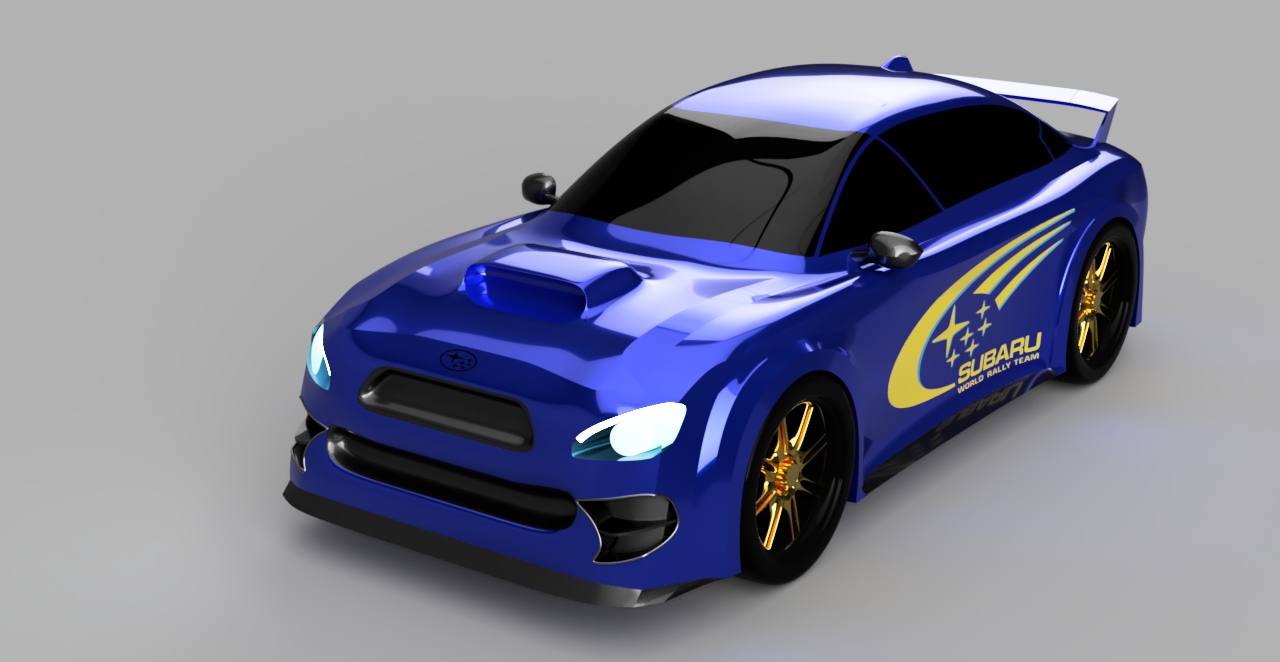
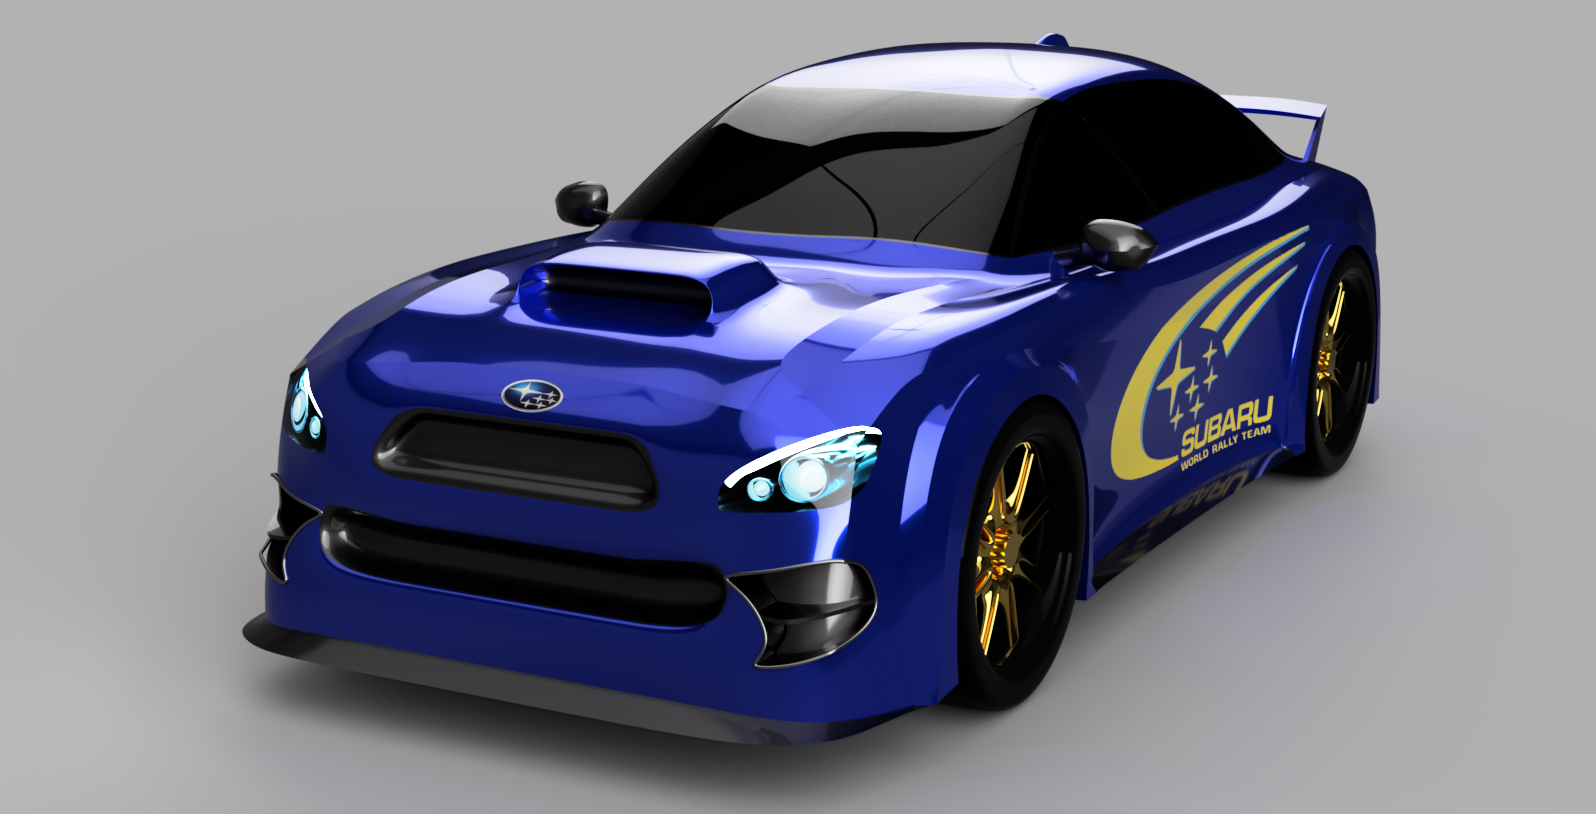
some updates on portfolio contents

diff --git a/src/views/Components/Sections/SectionCarousel.js b/src/views/Components/Sections/SectionCarousel.js
@@ -15,6 +15,9 @@ import car2 from "assets/img/car2.png";
 import car3 from "assets/img/car3.png";
 import car4 from "assets/img/car4.png";
 import car5 from "assets/img/car5.png";
+import cfd1 from "assets/img/cfd1.png";
+import cfd2 from "assets/img/cfd2.png";
+import cfd3 from "assets/img/cfd3.png";
 import engine1 from "assets/img/engine1.jpg";
 import engine2 from "assets/img/engine2.jpg";
 import engine3 from "assets/img/engine3.jpg";
@@ -40,11 +43,15 @@ const useStyles = makeStyles(styles);
 export default function SectionCarousel() {
   const classes = useStyles();
   const [portfolio, setPortfolio] = React.useState("");
+  const [cfd, setCfd] = React.useState("");
   React.useEffect(() => {
     const getFile = async () => {
       try {
         const result = await Storage.get("e-portfolio.pdf");
+        const result2 = await Storage.get("cfd_coursework.pdf");
+
         setPortfolio(result);
+        setCfd(result2);
       } catch (error) {
         console.log(error);
       }
@@ -266,7 +273,7 @@ export default function SectionCarousel() {
           <GridItem>
             <div className={classes.title}>
               <h2 className={classes.title}>
-                Surface Design of My Ideal Sports Car
+                Surface Design of My Ideal Sports Cars
               </h2>
               <h5>SEP 2018</h5>
             </div>
@@ -304,18 +311,98 @@ export default function SectionCarousel() {
           <GridItem xs={12} sm={12} md={4}>
             <div className={classes.typo}>
               <h5>
-                The project is basically a practice of
+                The left portfolio images demonstrated my strong knowledge of
+                using
                 <a
                   href="https://www.autodesk.co.uk/products/fusion-360/overview"
                   target="blank"
                 >
                   {" "}
-                  Fusion 360.{" "}
+                  Fusion 360{" "}
                 </a>
-                The whole surface design combined the idea of both aerodynamics
-                and fashion styling. Although for now, I am not capable of
-                fabricating it, I believe that someday in the near future, the
-                dream car would not be JUST a dream!
+                in vehicle appearance design. I am capable of following the
+                existing blue print (first image Subaru WRX STI) and design from
+                complete scratch (second and third images). More specifically,
+                the whole surface design in the second image combined the ideas
+                of both aerodynamics and fashion styling. Although for now, I am
+                not capable of fabricating it, I believe that someday in the
+                near future, the dream car would not be JUST a dream!
+              </h5>
+            </div>
+          </GridItem>
+
+          <GridItem>
+            <div className={classes.title}>
+              <h2 className={classes.title}>CFD Analysis of Intake Manifold</h2>
+              <h5>MAR 2021</h5>
+            </div>
+          </GridItem>
+          <GridItem xs={12} sm={12} md={8} className={classes.marginAuto}>
+            <Card carousel>
+              <Carousel {...settings}>
+                <div>
+                  <img
+                    src={cfd1}
+                    alt="First slide"
+                    style={{
+                      position: "relative",
+                      display: "inline-block",
+                      left: "50%",
+                      transform: "translate(-50%)",
+                    }}
+                    className="slick-image"
+                  />
+                  {/* <div className="slick-caption">
+                    {<h4>Intake Velocity of 100 m/s</h4>}
+                  </div> */}
+                </div>
+                <div>
+                  <img
+                    src={cfd2}
+                    alt="First slide"
+                    style={{
+                      position: "relative",
+                      display: "inline-block",
+                      left: "50%",
+                      transform: "translate(-50%)",
+                    }}
+                    className="slick-image"
+                  />
+                  <div className="slick-caption">{/* <h4>Front</h4> */}</div>
+                </div>
+                <div>
+                  <img
+                    src={cfd3}
+                    alt="Second slide"
+                    style={{
+                      position: "relative",
+                      display: "inline-block",
+                      left: "50%",
+                      transform: "translate(-50%)",
+                    }}
+                    className="slick-image"
+                  />
+                  <div className="slick-caption">{/* <h4>Side</h4> */}</div>
+                </div>
+              </Carousel>
+            </Card>
+          </GridItem>
+          <GridItem xs={12} sm={12} md={4}>
+            <div className={classes.typo}>
+              <h5>
+                The first image showed one of the significant results generating
+                from the CFD analysis which was the velocity distribution at
+                each point across the entire intake manifold. It was shown that
+                the air at upper-right part of the manifold almost remained idle
+                even when the intake velocity rose to 100 m/s. Therefore, based
+                on this finding, the intake manifold had a substantial amount of
+                potential to improve. The following two images demonstrated the
+                validation results of the model. Check out the
+                <a href={`${cfd}`} target="blank">
+                  {" "}
+                  report{" "}
+                </a>
+                for more information about this CFD analysis project.
               </h5>
             </div>
           </GridItem>
